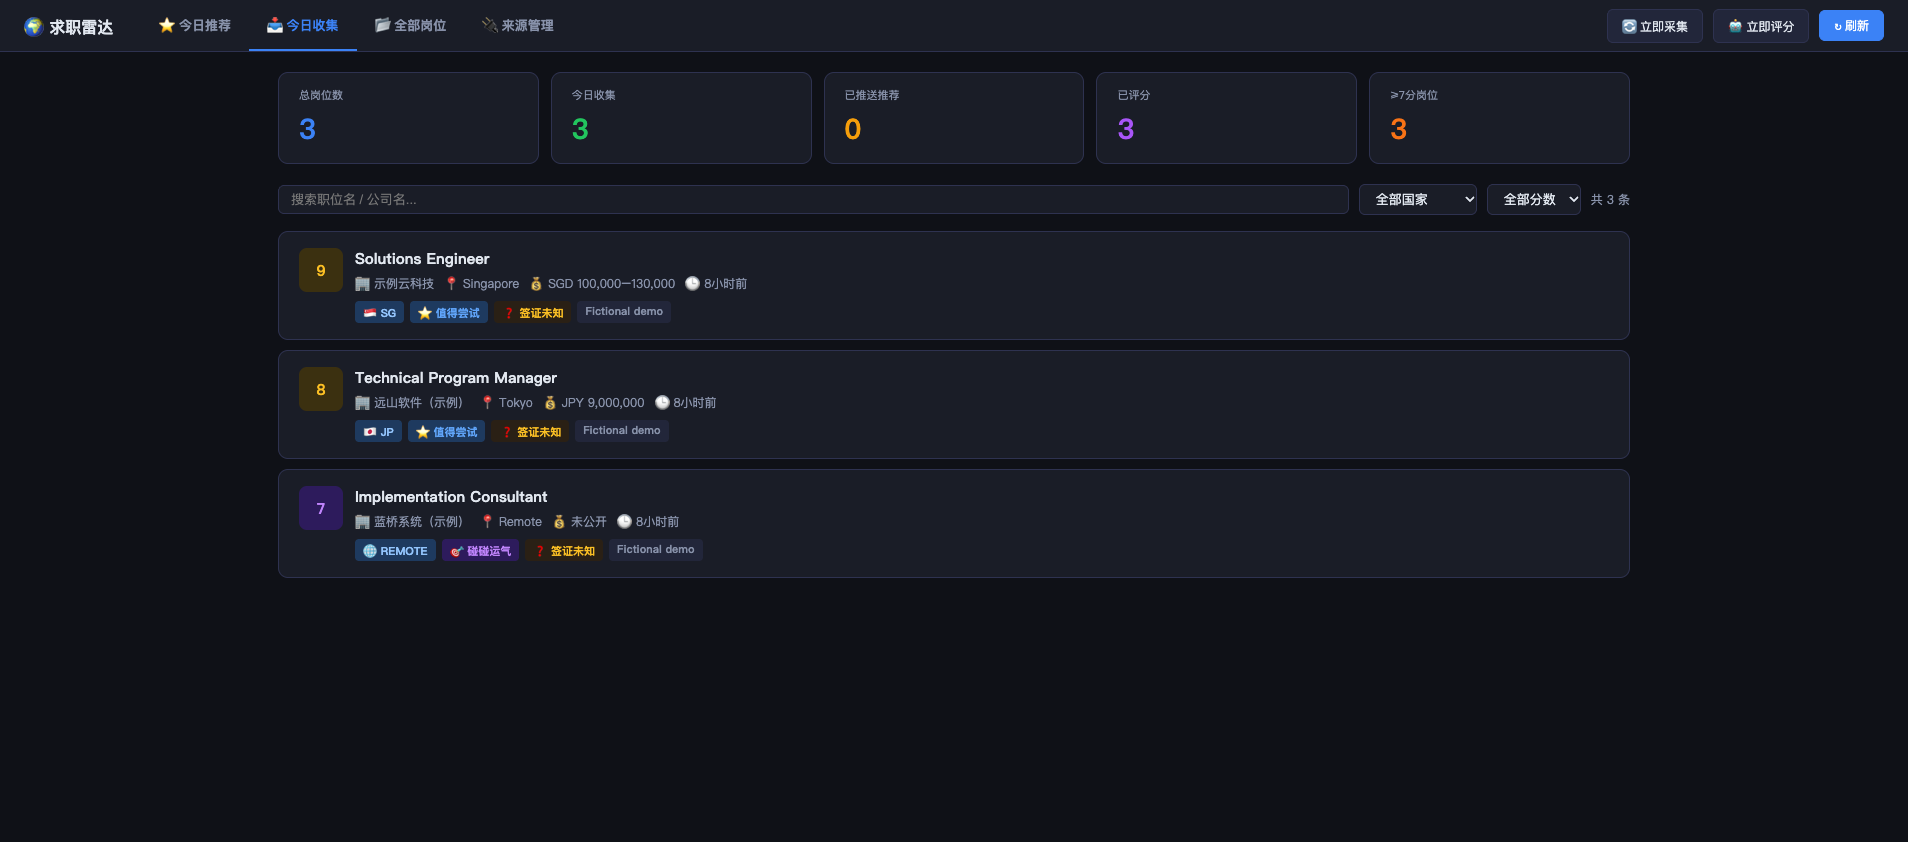
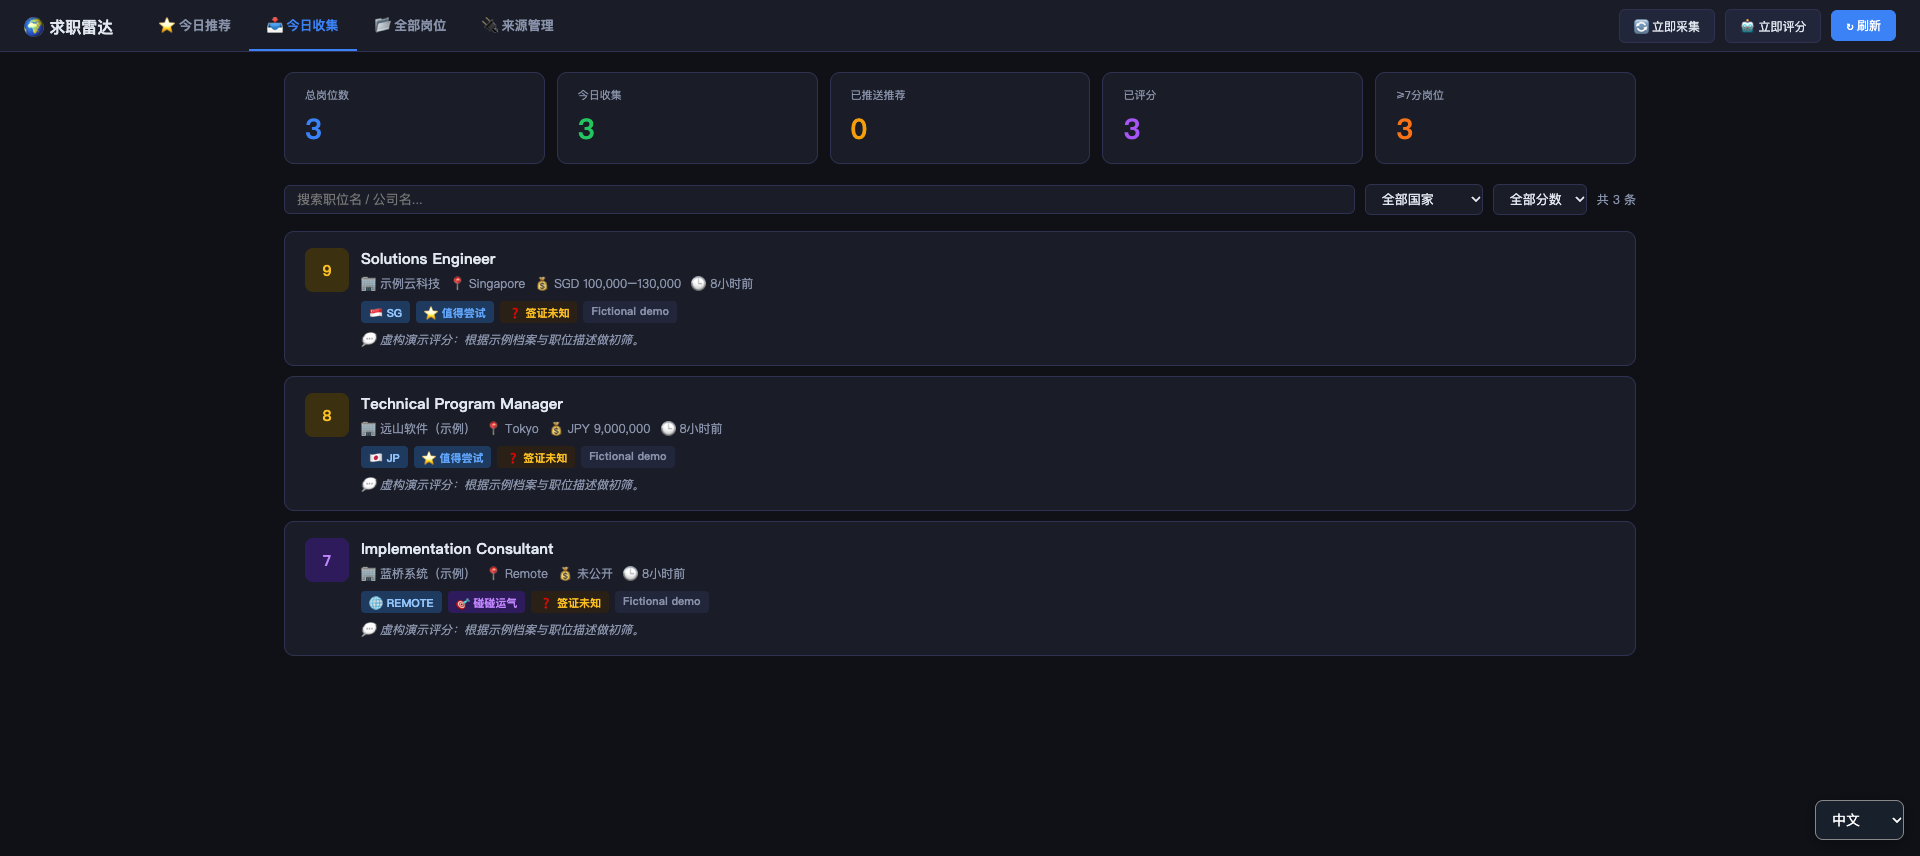
Explain project value with richer synthetic screenshots

diff --git a/scripts/seed_demo.py b/scripts/seed_demo.py
@@ -12,9 +12,25 @@ async def main():
     rows = json.loads((Path(__file__).resolve().parents[1] / "examples/demo-jobs.json").read_text(encoding="utf-8"))
     async with get_session() as session:
         for row in rows:
-            if await session.get(Job, Job.make_id(row["url"])):
-                continue
-            session.add(Job(id=Job.make_id(row["url"]), title=row["title"], company=row["company"], location=row["location"], country=row["country"], salary=row["salary"], description=row["description"], url=row["url"], source_id="demo", source_name="Fictional demo", match_score=row["score"], visa_status=row["visa_status"], priority=row["priority"], is_scored=True, is_analyzed=True))
+            job = await session.get(Job, Job.make_id(row["url"]))
+            if job is None:
+                job = Job(id=Job.make_id(row["url"]), url=row["url"])
+                session.add(job)
+            job.title = row["title"]
+            job.company = row["company"]
+            job.location = row["location"]
+            job.country = row["country"]
+            job.salary = row["salary"]
+            job.description = row["description"]
+            job.source_id = "demo"
+            job.source_name = "Fictional demo"
+            job.match_score = row["score"]
+            job.score_reason = row["score_reason"]
+            job.analysis_json = json.dumps(row["analysis"], ensure_ascii=False)
+            job.visa_status = row["visa_status"]
+            job.priority = row["priority"]
+            job.is_scored = True
+            job.is_analyzed = True
     await close_db()
 
 if __name__ == "__main__":

diff --git a/README.md b/README.md
@@ -2,26 +2,47 @@
 
 # Job Radar / 求职雷达
 
-从公开招聘来源汇总职位，按可配置的岗位、地区、签证与薪资偏好筛选，并可选用 OpenRouter 做匹配分析。网页默认只在本机开放。
+**少刷重复的招聘页，把时间留给值得认真申请的职位。** 求职雷达把多个公开来源的岗位放在同一处，按自己的地区、职种、薪资与签证需求做初筛，再把“匹配点、未知项、下一步核实什么”放到同一张职位卡里。
 
-## 先看演示
+| 过去要手动做的事 | 现在能集中查看 |
+|---|---|
+| 在多家招聘网站反复搜同一类岗位 | 一个职位列表、来源与采集时间 |
+| 忘记为什么收藏或放弃某个岗位 | 可配置偏好与匹配理由 |
+| 只看分数，忽略签证或薪资缺口 | 单独列出优势、风险与待核实问题 |
+| 想快速看效果又不想提供真实简历 | 虚构求职者和三条虚构职位的一键本地演示 |
 
-![三个虚构职位的求职雷达演示](docs/demo-jobs.png)
+### 看一条岗位如何变成申请决策
 
-需要 Python 3.11+。`pip install -r requirements.txt` 后执行 `python scripts/seed_demo.py`，再运行 `python api/app.py`，打开 `http://127.0.0.1:8077`。演示中的求职者“林知遥”和三个职位全部虚构，不会调用招聘网站、模型或飞书。
+演示中的求职者“林知遥”、公司、职位、分数与分析**全部虚构**，不会访问招聘网站、模型或飞书。
 
-## 使用自己的偏好
+**1. 同一页查看职位、来源、地区、薪资与优先级。**
 
-复制 `.env.example` 为 `.env`，将 `config/profile.example.json` 复制到 `config/profile.json` 并填写自己的资料，再设 `JOB_RADAR_PROFILE=config/profile.json`。编辑 `config/sources.yaml` 中的岗位关键词、薪资门槛和来源。个人资料及本地数据库都被 Git 忽略。
+![三条虚构职位的求职雷达](docs/demo-jobs.png)
 
-手动采集入口是 `python scripts/collect_once.py`；评分、分析与推送入口是 `python run_full.py`；`python main.py` 启动定时调度。配置 `OPENROUTER_API_KEY` 后才使用 AI，配置 `FEISHU_WEBHOOK_JOBS` 后才推送。运行前请检查 `.env` 中的 `DRY_RUN`。
+**2. 点开职位，看到匹配理由、签证未知项和下一步建议。** 演示分析是手工编写的样本，不是模型真实输出。
 
-## 数据来源与边界
+![虚构职位的匹配分析示例](docs/demo-match.png)
 
-包含 RSS、Greenhouse、Lever、Remotive、Remote OK、Arbeitnow 和 LinkedIn 访客页面采集器。LinkedIn 默认关闭；只有显式设置 `ENABLE_LINKEDIN=true` 才会使用访客页面采集。该页面结构易变，可能限制抓取；请遵守各站条款和速率限制。模型对签证赞助与薪资的判断只是提示，申请前应查看雇主原始职位页。默认网页绑定 `127.0.0.1`；如要公网使用，先加认证。
+**3. 来源列表说明支持哪些入口；图中的零计数表示演示没有访问外部平台。**
 
-MIT License。本项目不隶属于任何招聘平台。
+![招聘来源配置页面](docs/demo-sources.png)
+
+## 五分钟本地演示
+
+需要 Python 3.11+。执行 `pip install -r requirements.txt`、`python scripts/seed_demo.py`、`python api/app.py`，打开 `http://127.0.0.1:8077`。重复运行种子脚本会更新这三条演示职位。
+
+## 用自己的偏好
+
+复制 `.env.example` 为 `.env`；将 `config/profile.example.json` 复制为 `config/profile.json` 并填写自己的资料，设置 `JOB_RADAR_PROFILE=config/profile.json`。在 `config/sources.yaml` 修改岗位关键词、薪资门槛和来源。个人档案及本地数据库被 Git 忽略。
+
+`python scripts/collect_once.py` 手动采集一次；`python run_full.py` 做评分、分析和可选推送；`python main.py` 启动定时调度。AI 需要 `OPENROUTER_API_KEY`，飞书推送需要 `FEISHU_WEBHOOK_JOBS`。默认 `DRY_RUN=true`，不会发送。
+
+## 数据与判断边界
+
+包含 RSS、Greenhouse、Lever、Remotive、Remote OK、Arbeitnow 和 LinkedIn 访客页面采集器。LinkedIn 默认关闭，显式设置 `ENABLE_LINKEDIN=true` 才启用；页面结构可能变化，使用时应遵守各站条款。模型对签证与薪资的判断只是提示，申请前必须回到雇主原始职位页核实。网页默认仅绑定 `127.0.0.1`。
 
 ## 语言
 
-网页右下角可切换中文、English、日本語；主导航、筛选和常用状态会随之切换。来自外部系统的标题、原文和诊断详情保留来源语言。
+网页右下角可切换中文、English、日本語的主导航、筛选与常见状态。职位标题、公司名称和原始描述保留来源语言。
+
+MIT License。本项目不隶属于任何招聘平台。

diff --git a/README.ja.md b/README.ja.md
@@ -2,7 +2,23 @@
 
 **言語:** [简体中文](README.md) · [English](README.en.md) · 日本語
 
-![架空の求人三件を表示する画面](docs/demo-jobs.png)
+**求人サイトを何度も見直す時間を減らし、応募する価値のある職種に時間を使えます。** 求人を一か所に集め、自分の条件と比較し、適合理由と不足情報、特にビザと給与を確認してから応募を検討できます。
+
+### 求人から判断まで · 候補者と求人は架空
+
+**三件の求人を一覧で表示:**
+
+![架空の求人一覧](docs/demo-jobs.png)
+
+**適合度・リスク・次の確認事項:**
+
+![架空の適合度分析](docs/demo-match.png)
+
+**設定済みソース:**
+
+![外部収集を行っていないソース一覧](docs/demo-sources.png)
+
+点数と分析は手作業で作ったデモデータであり、AI の実行結果ではありません。デモは求人サイトに接続しないため、ソースの件数はゼロです。
 
 公開求人を収集し、職種、地域、ビザ、給与の設定に応じて絞り込み、必要に応じて OpenRouter で適合度を分析します。画面は初期設定でローカルホストからのみ利用できます。
 

diff --git a/README.en.md b/README.en.md
@@ -2,7 +2,23 @@
 
 **Language:** [简体中文](README.md) · English · [日本語](README.ja.md)
 
-![Three fictional jobs in the local dashboard](docs/demo-jobs.png)
+**Spend less time revisiting job boards and more time applying to the right roles.** Bring listings into one view, compare them with your own preferences, and see the match reasons and missing facts—especially visa and salary—before investing time in an application.
+
+### From listing to decision · synthetic candidate and jobs
+
+**Three jobs in one view:**
+
+![Fictional jobs in the dashboard](docs/demo-jobs.png)
+
+**Match, risks, and next step:**
+
+![Fictional match analysis](docs/demo-match.png)
+
+**Configured sources:**
+
+![Source configuration with zero live collection](docs/demo-sources.png)
+
+The sample scores and analysis are hand-written demonstration data, not a live AI result. Source counts are zero because the demo does not contact job platforms.
 
 Aggregate public job listings, filter them using configurable role, region, visa, and salary preferences, and optionally analyze matches with OpenRouter. The site binds to localhost by default.
 
